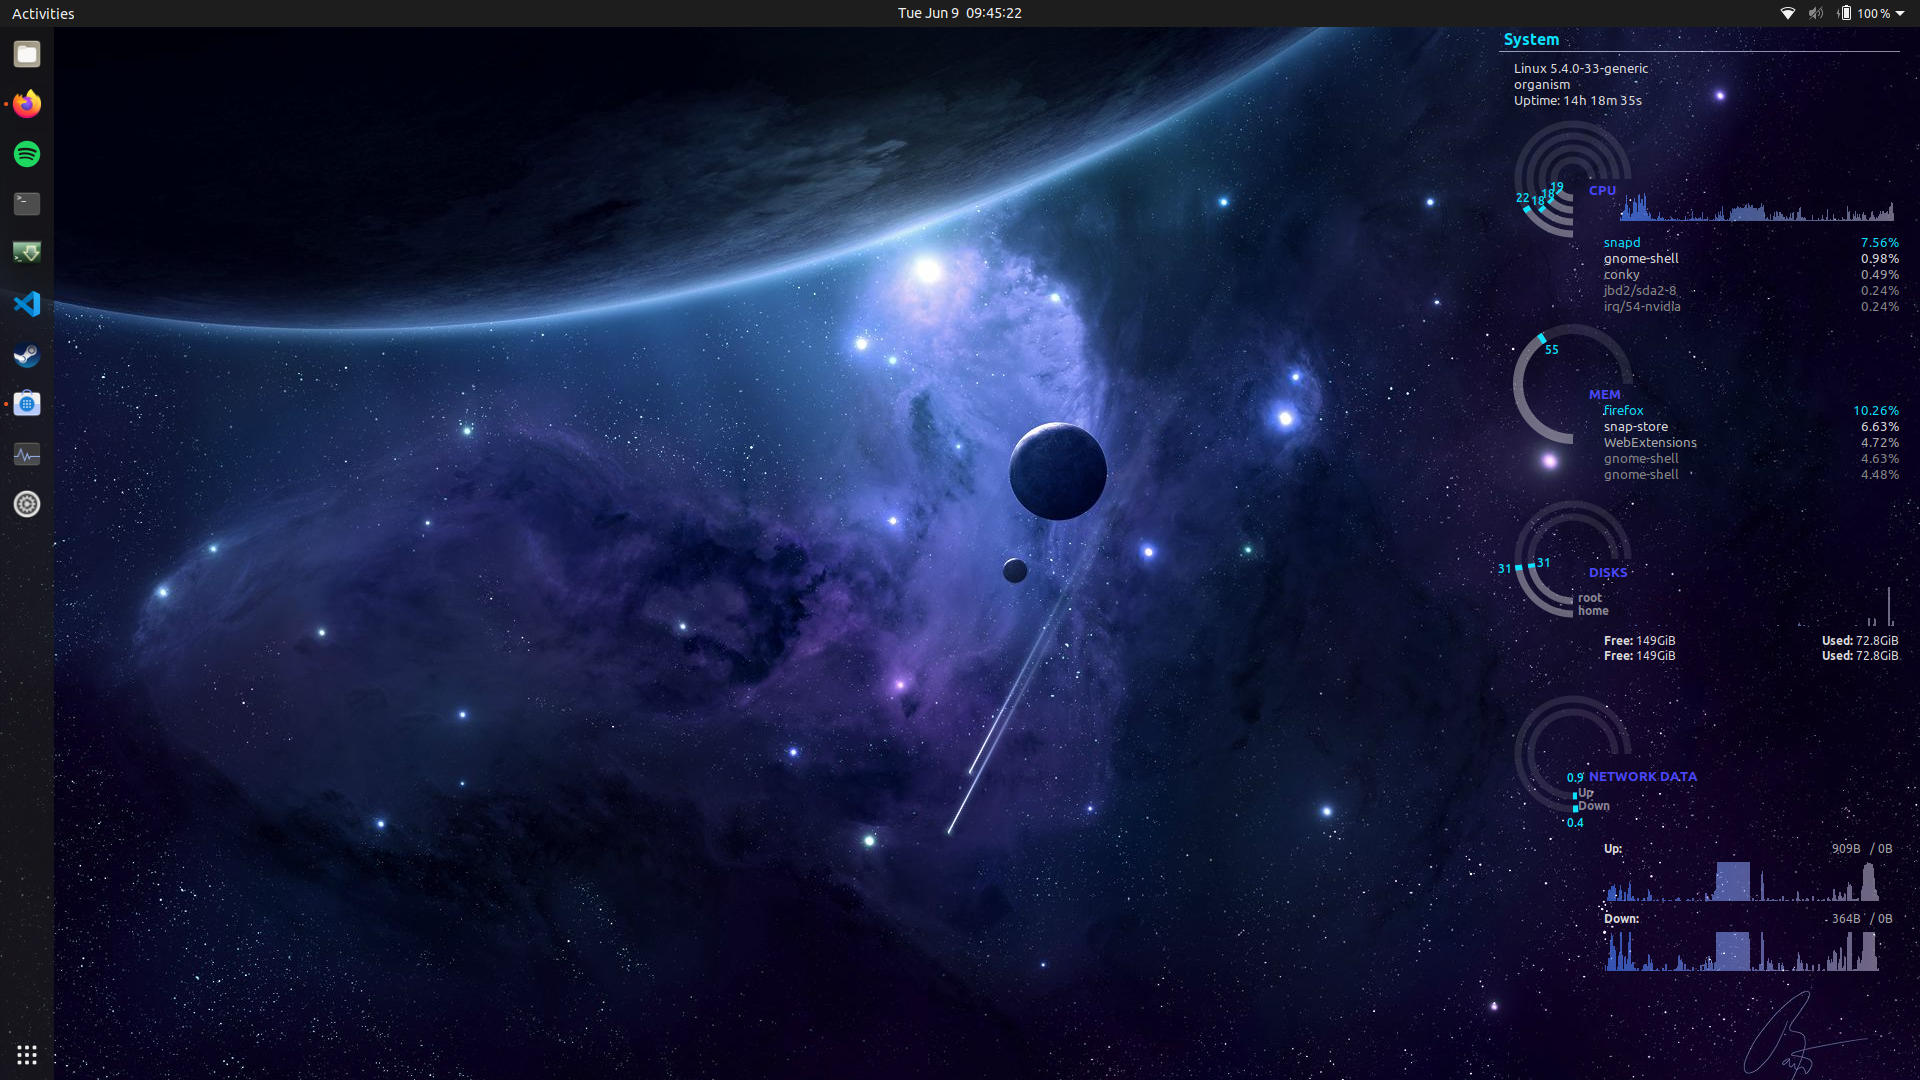
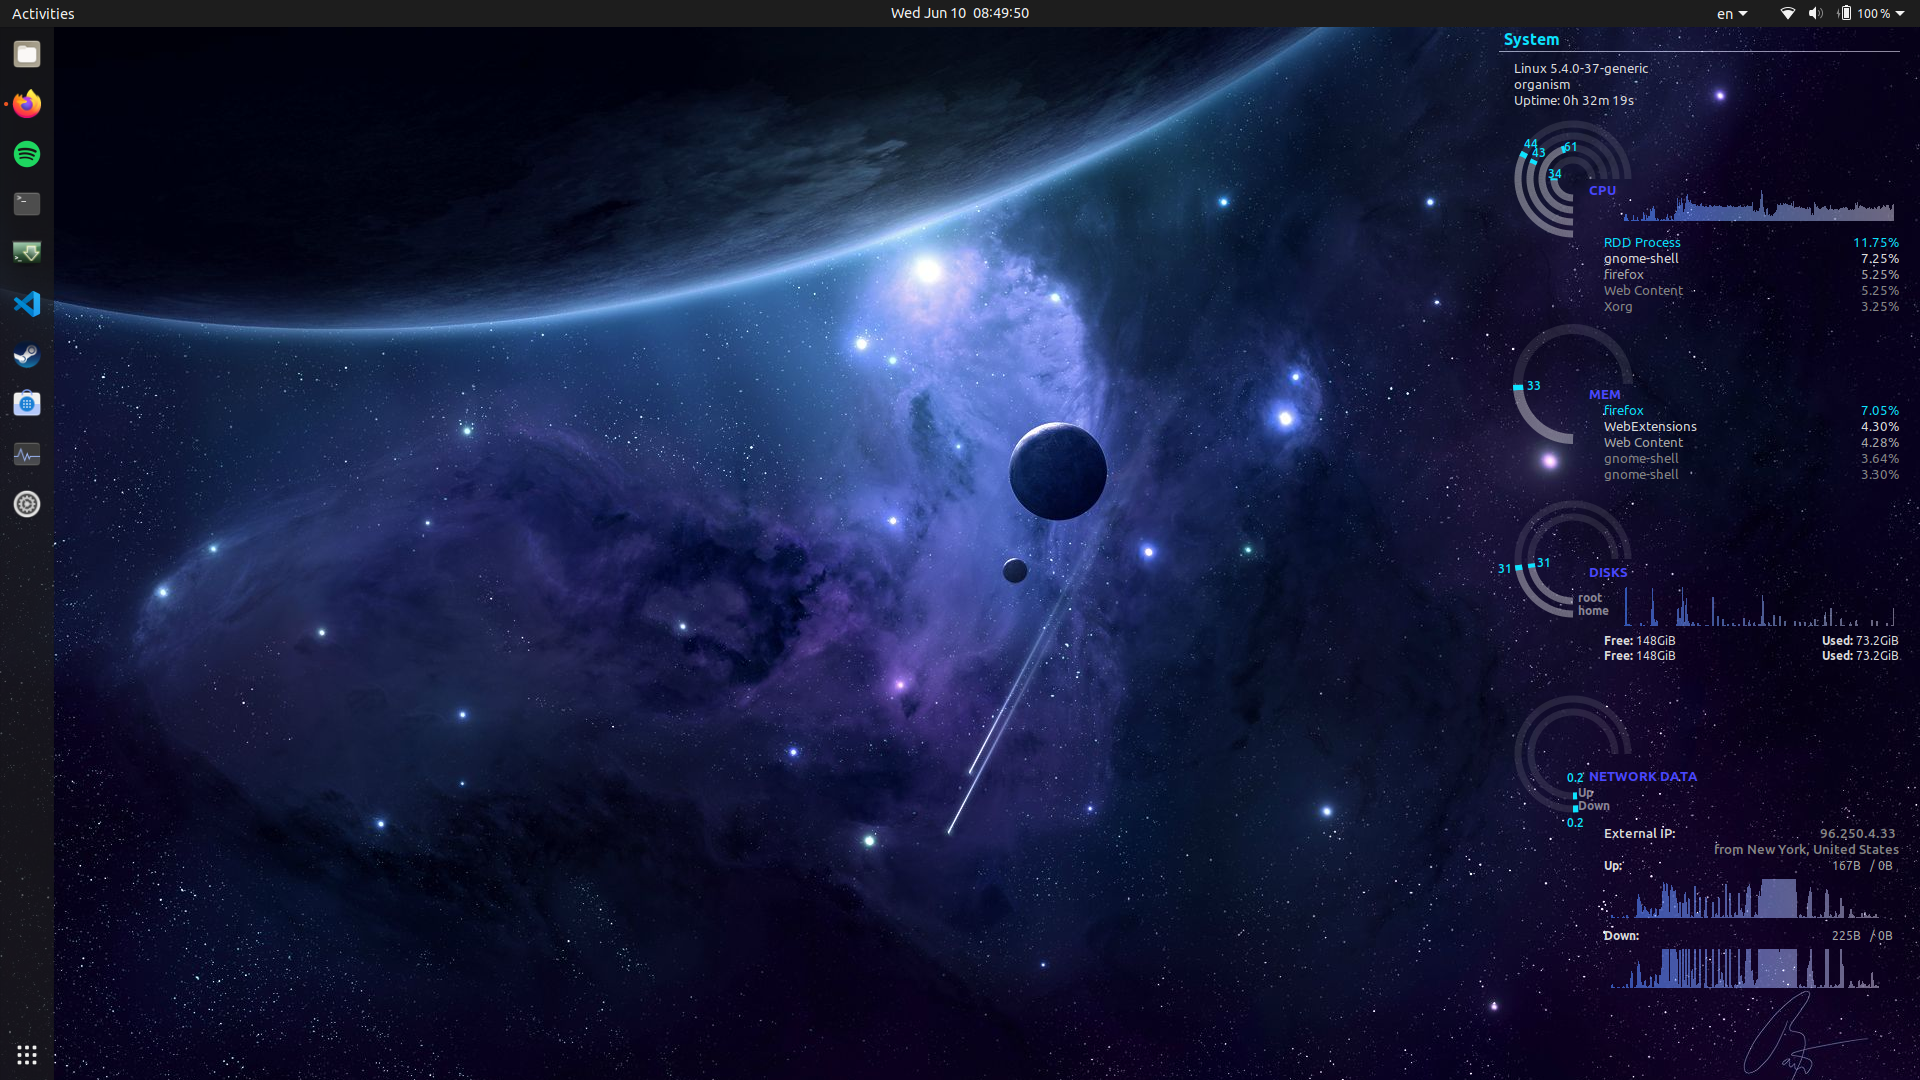
add external IP address

diff --git a/README.md b/README.md
@@ -21,6 +21,7 @@ It probably won't work on your system without similar mods.
 - Add "text offset" argument for the labels on the rings, allowing more concentric rings to be closely packed together.
 - Change network graph max value from 100b/s to 5000b/s. There is no obvious max value for this graph, and 5000 is arbitrary.
 - Fix bug where values exceeding the max value overflow the ring. The ring arc is now truncated to the max value.
+- Add external IP address and city of the IP.
 
 
 ## Installation
